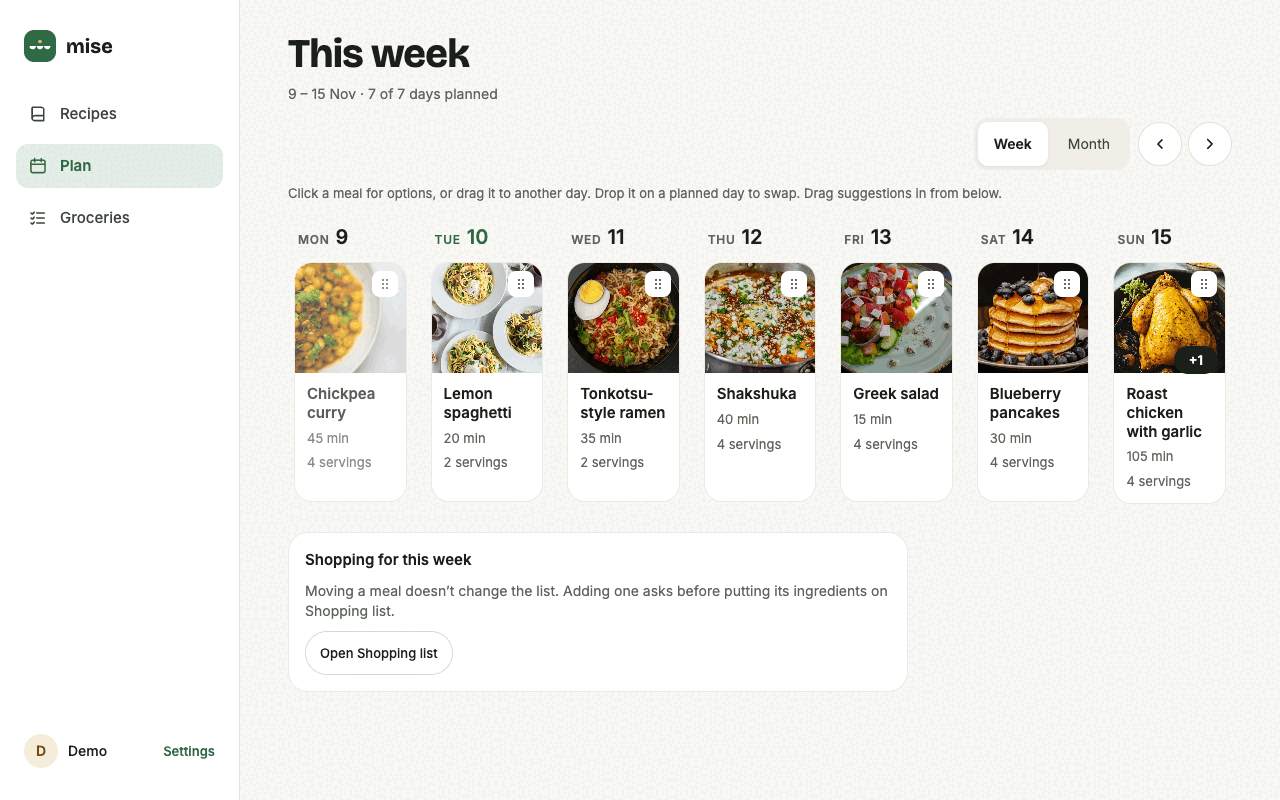
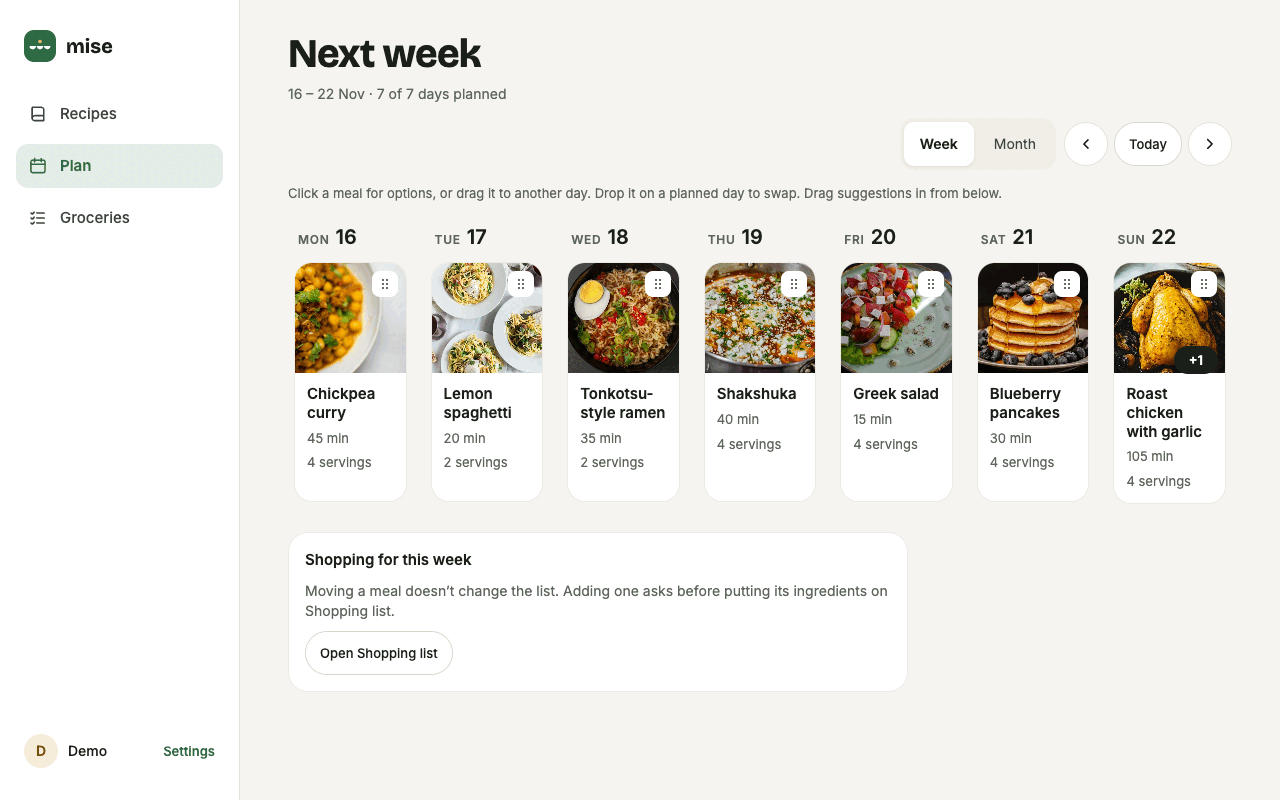
Screenshots: aisles, next week's plan, one-step regeneration
The seed sorts the shopping list into aisles through the item edit form,
plans next week so no day is in the past, and shoot.mjs quantizes the PNGs.

diff --git a/docs/screenshots/seed.py b/docs/screenshots/seed.py
@@ -12,6 +12,7 @@ demo / demo-password-123.
 """
 
 import datetime
+import html
 import pathlib
 import re
 import sys
@@ -80,7 +81,7 @@ RECIPES = [
                 ("Simmer uncovered until the sauce clings to the chickpeas. Cook the rice alongside.", "20"),
                 ("Fold in the spinach until wilted, taste for salt and lemon, and serve over rice.", "")]),
     dict(name="Lemon spaghetti", photo="lemon-spaghetti", servings=2, prep=5, cook=15, tags="Vegetarian, Pasta, Quick",
-         ing=[("200 g", "Spaghetti"), ("2", "Unwaxed lemons"), ("40 g", "Butter"), ("1", "Garlic clove"),
+         ing=[("200 g", "Spaghetti"), ("2", "Unwaxed lemons"), ("40 g", "Butter"), ("1", "Garlic cloves"),
               ("50 g", "Parmesan"), ("2 handfuls", "Rocket"), ("1 pinch", "Chilli flakes")],
          steps=[("Boil the spaghetti in well-salted water and keep a mugful of the cooking water before draining.", "10"),
                 ("Melt the butter with the crushed garlic, the zest of both lemons and the juice of one.", ""),
@@ -137,17 +138,21 @@ def main():
         url, _ = post("/recipes", fields, files)
         ids[r["name"]] = re.search(r"/recipes/([0-9a-f-]{36})", url).group(1)
 
-    # Plan this week; the ingredients of the first two meals go on the list.
+    # Plan next week, so no day is in the past whenever this runs (shoot.mjs
+    # opens that week), plus tonight's dinner; the ingredients of the first
+    # two meals go on the list.
     today = datetime.date.today()
-    monday = today - datetime.timedelta(days=today.weekday())
+    monday = today - datetime.timedelta(days=today.weekday()) + datetime.timedelta(days=7)
     week = [("Chickpea curry", 0), ("Lemon spaghetti", 1), ("Tonkotsu-style ramen", 2), ("Shakshuka", 3),
             ("Greek salad", 4), ("Blueberry pancakes", 5), ("Roast chicken with garlic", 6), ("Tiramisu", 6)]
     servings = {r["name"]: r["servings"] for r in RECIPES}
-    for i, (name, offset) in enumerate(week):
+    # (recipe, date): tonight first, then next week.
+    meals = [("Lemon spaghetti", today)] + [(n, monday + datetime.timedelta(days=d)) for n, d in week]
+    for i, (name, day) in enumerate(meals):
         rid = ids[name]
         _, page = get(f"/recipes/{rid}")
-        ing = sorted(set(re.findall(rf"/recipes/{rid}/ingredients/([0-9a-f-]{{36}})/toggle", page))) if i < 2 else []
-        date = (monday + datetime.timedelta(days=offset)).isoformat()
+        ing = sorted(set(re.findall(rf"/recipes/{rid}/ingredients/([0-9a-f-]{{36}})/toggle", page))) if 1 <= i <= 2 else []
+        date = day.isoformat()
         post("/plan", {"recipe": rid, "date": date, "servings": str(servings[name]), "ingredient": ing,
                        "back": f"/plan?week={monday.isoformat()}"})
 
@@ -157,8 +162,41 @@ def main():
     # A few loose entries on the shopping list.
     url, page = get("/groceries")
     lid = re.search(r"/groceries/lists/([0-9a-f-]{36})", url + page).group(1)
-    for text in ["1 l oat milk", "Bananas", "Dishwasher tabs", "Kitchen roll"]:
+    for text in ["1 l oat milk", "Bananas", "Dishwasher tabs", "Kitchen roll", "Sourdough bread"]:
         post(f"/groceries/lists/{lid}/entries", {"text": text})
+
+    # Sort the list into aisles through each entry's edit form (the category
+    # is remembered per item name, like a member would do it).
+    KEEP = {"Baby spinach", "Chickpeas", "Coconut milk", "Curry powder", "Basmati rice", "Spaghetti",
+            "Unwaxed lemons", "Parmesan", "Butter", "Oat milk", "Bananas", "Dishwasher tabs", "Kitchen roll", "Sourdough bread"}
+    aisles = {
+        "Pantry": ["coconut"],
+        "Produce": ["spinach", "banana", "lemon", "onion", "garlic", "pepper", "tomato", "rocket", "cucumber", "ginger",
+                    "parsley", "carrot", "potato", "spring onion", "thyme", "blueberr"],
+        "Fridge": ["butter", "parmesan", "feta", "milk", "egg", "mascarpone", "cream"],
+        "Bakery": ["bread"],
+        "Household": ["tabs", "kitchen roll"],
+    }
+
+    def aisle(name):
+        low = name.lower()
+        for cat, words in aisles.items():
+            if any(w in low for w in words):
+                return cat
+        return "Pantry"
+
+    _, page = get(f"/groceries/lists/{lid}")
+    for eid in dict.fromkeys(re.findall(r"/groceries/entries/([0-9a-f-]{36})/edit", page)):
+        _, form = get(f"/groceries/entries/{eid}/edit")
+        name = html.unescape(re.search(r'name="name" type="text" value="([^"]*)"', form).group(1))
+        if name not in KEEP:  # keep the demo list short: most ingredients are in the cupboard
+            post(f"/groceries/entries/{eid}/remove", {})
+            continue
+        amount = html.unescape(re.search(r'name="amount" type="text" value="([^"]*)"', form).group(1))
+        cats = {html.unescape(label): val for val, label in
+                re.findall(r'name="category" value="([0-9a-f-]*)"[^>]*> <span>([^<]*)</span>', form)}
+        post(f"/groceries/entries/{eid}/edit", {"name": name, "amount": amount, "category": cats[aisle(name)],
+                                                "new_category": "", "note": ""})
     print("seeded; sign in as demo /", PASSWORD)
 
 

diff --git a/README.md b/README.md
@@ -139,4 +139,4 @@ Pushes to `main` publish `ghcr.io/raphi011/mise:edge`. A `vX.Y.Z` tag publishes 
 
 ### Screenshots
 
-The images in `docs/screenshots` are regenerated against a scratch instance: start the server with an empty `MISE_DATA_DIR` and `MISE_LISTEN=127.0.0.1:8090`, run `python3 docs/screenshots/seed.py http://127.0.0.1:8090`, then `node docs/screenshots/shoot.mjs http://127.0.0.1:8090 docs/screenshots` (needs Chrome). The recipe photos are in `docs/screenshots/photos`, credited in [CREDITS.md](docs/screenshots/CREDITS.md).
+The images in `docs/screenshots` are regenerated against a scratch instance: start the server with an empty `MISE_DATA_DIR` and `MISE_LISTEN=127.0.0.1:8090`, run `python3 docs/screenshots/seed.py http://127.0.0.1:8090`, then `node docs/screenshots/shoot.mjs http://127.0.0.1:8090 docs/screenshots` (needs Chrome and ImageMagick; it also shrinks the PNGs). The recipe photos are in `docs/screenshots/photos`, credited in [CREDITS.md](docs/screenshots/CREDITS.md).
